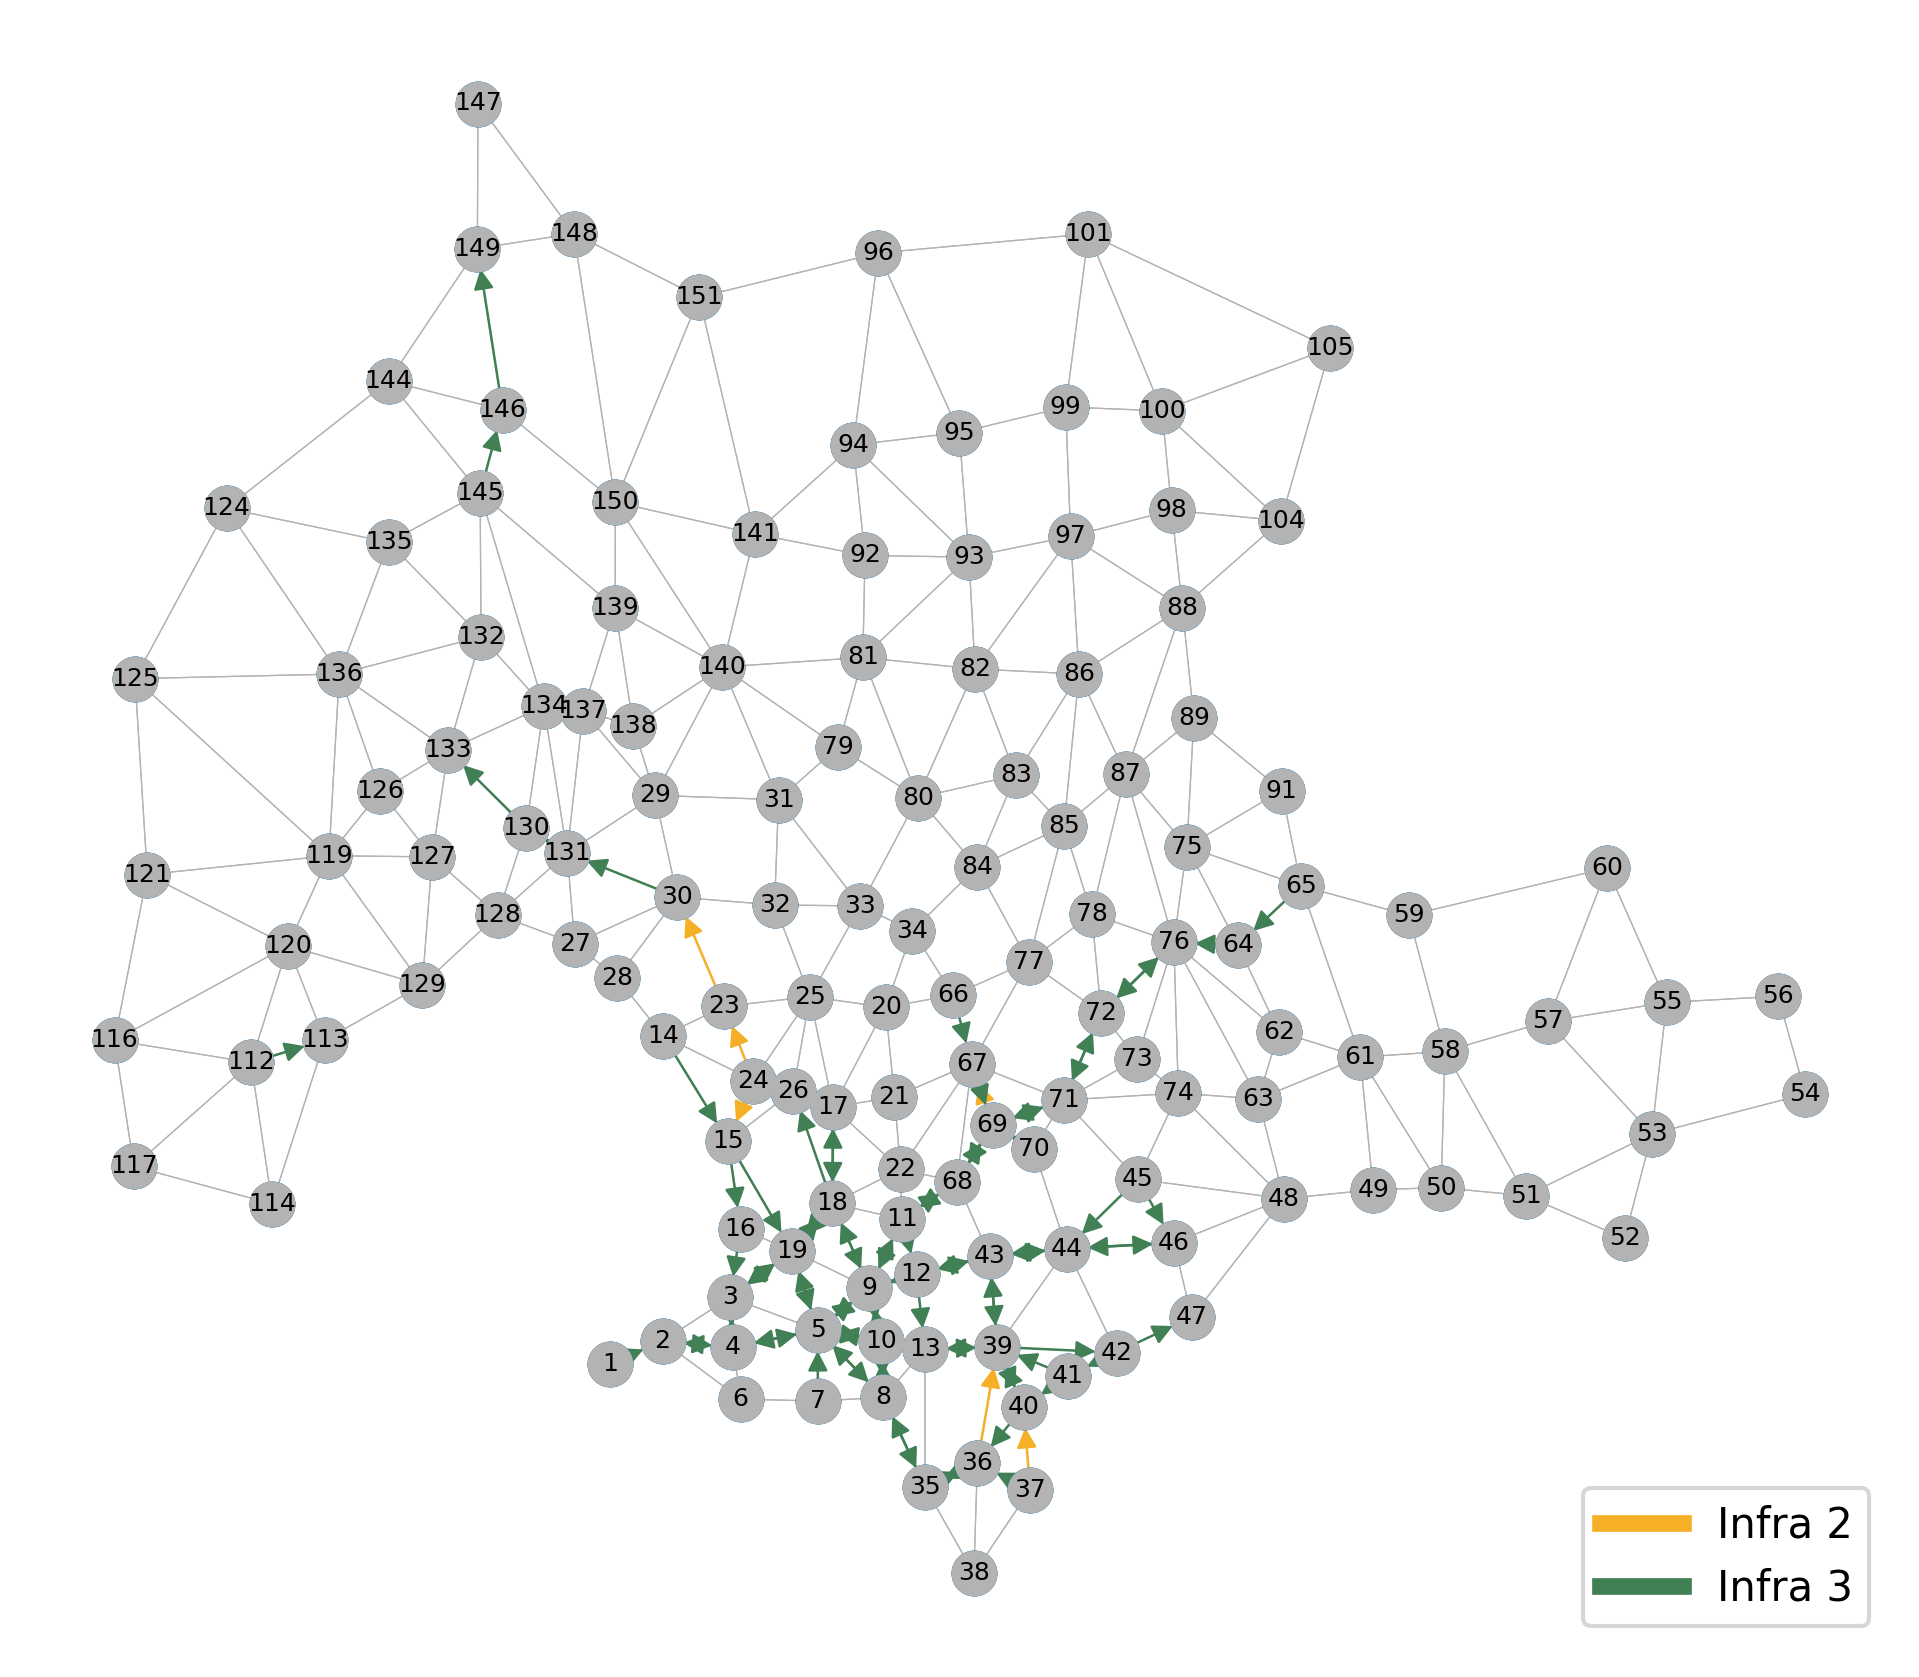
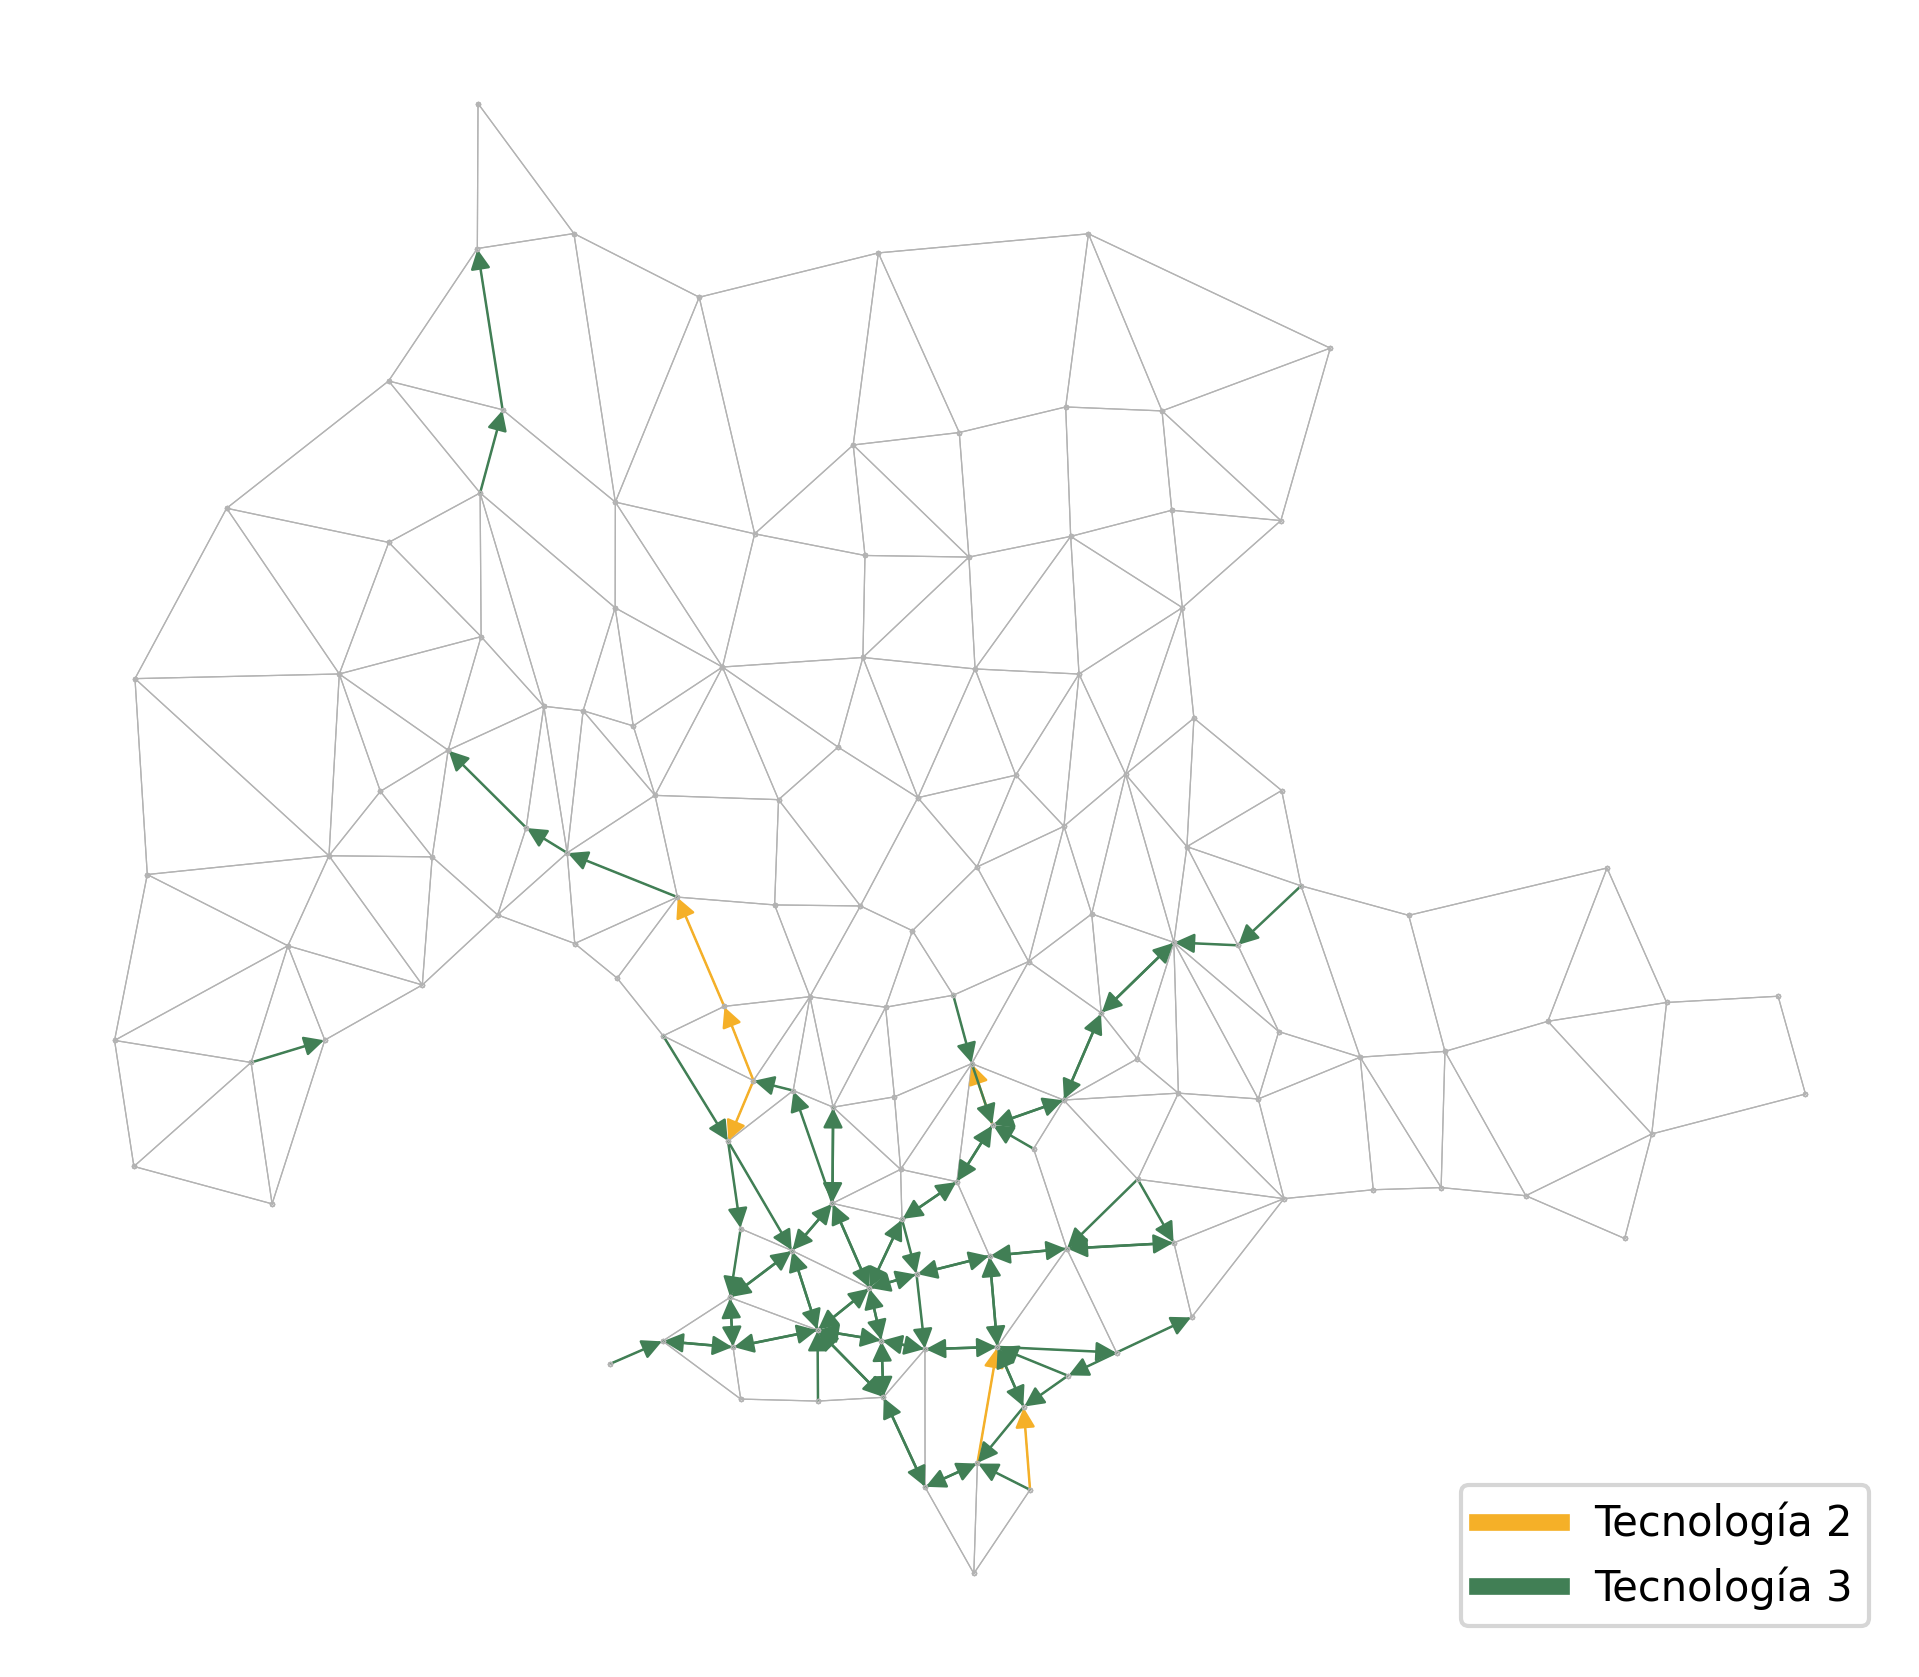
improve montevideo instances drawing

diff --git a/scripts/processsensitivity.py b/scripts/processsensitivity.py
@@ -155,6 +155,8 @@ def draw_instances(
     dpi=300,
     fig_height=7,
     fig_width=15,
+    with_labels=True,
+    node_size=None,
 ):
     """
     Draw instances and solutions
@@ -170,13 +172,21 @@ def draw_instances(
         else:
             fig, ax1 = plt.subplots()
 
-        draw_model = functools.partial(
-            bc.draw.draw,
-            model,
+        draw_params = dict(
             solution=solution,
             width=width,
             legend_location='lower right',
-            margins=[0.05],
+            # margins=[0.02],
+            with_labels=with_labels,
+        )
+
+        if node_size:
+            draw_params['node_size'] = node_size
+
+        draw_model = functools.partial(
+            bc.draw.draw,
+            model,
+            **draw_params,
         )
 
         draw_model(
@@ -365,6 +375,10 @@ def main():
         '--draw-fig-width', type=int, default=13)
     parser.add_argument(
         '--draw-skip-flows', action='store_true')
+    parser.add_argument(
+        '--draw-node-size', type=float, default=None)
+    parser.add_argument(
+        '--draw-skip-labels', action='store_true')
 
     args = parser.parse_args(sys.argv[1:])
 
@@ -384,6 +398,8 @@ def main():
             dpi=args.draw_dpi,
             fig_width=args.draw_fig_width,
             fig_height=args.draw_fig_height,
+            node_size=args.draw_node_size,
+            with_labels=not args.draw_skip_labels,
         )
 
     budget_use_df = summarize_solutions_to_csv(
